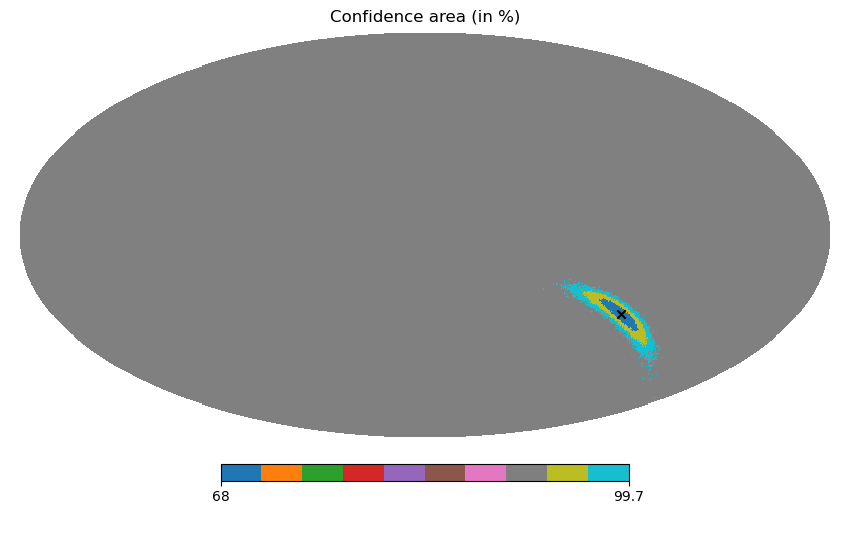
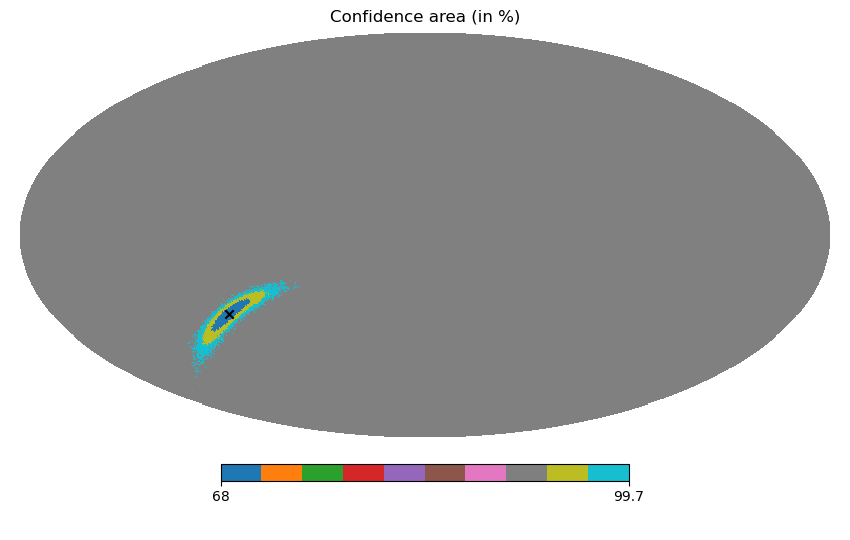
Updating files 21/09/2021

Changed region(s): [[0.6424, 0.5037, 0.7953, 0.6815], [0.2141, 0.5037, 0.3365, 0.6815]]

diff --git a/analytical_method.py b/analytical_method.py
@@ -1,0 +1,109 @@
+import numpy as np
+import matplotlib.pyplot as plt
+import random
+import scipy.stats
+import healpy as hp
+from tools import *
+
+
+################################################################################
+############################## Main program ####################################
+################################################################################
+
+NSIDE = 128
+NPIX = hp.nside2npix(NSIDE)
+area_pix = hp.nside2pixarea(NSIDE, degrees = True)
+
+coord = np.array(hp.pix2ang(nside=NSIDE, ipix=range(0,NPIX))).transpose()
+coord[:,0]=np.pi/2.-coord[:,0]                                                  # Declination = 90-colatitude
+
+ra_true = (-94.4)*(np.pi/180.)
+dec_true = (-28.94)*(np.pi/180.)
+
+sourcepos = Coordinate(ra_true, dec_true).cartesian_coords()
+
+dict = open_pkl('constant')
+c = dict['c']
+Rearth = dict['Rearth']
+lonKM3, latKM3 = dict['coord_KM3']
+lonIC, latIC = dict['coord_IC']
+lonSK, latSK = dict['coord_SK']
+lonHK, latHK = dict['coord_HK']
+lonJUNO, latJUNO = dict['coord_JUNO']
+
+xKM3, yKM3, zKM3 = dict['coord_cart_KM3']
+xIC, yIC, zIC = dict['coord_cart_IC']
+xSK, ySK, zSK = dict['coord_cart_SK']
+xHK, yHK, zHK = dict['coord_cart_HK']
+xJUNO, yJUNO, zJUNO = dict['coord_cart_JUNO']
+
+sigmatICKM3 = dict['sig_IC_KM3']
+sigmatICHK = dict['sig_IC_HK']
+sigmatHKKM3 = dict['sig_HK_KM3']
+sigmatKM3SK = dict['sig_KM3_SK']
+sigmatICSK = dict['sig_IC_SK']
+sigmatJUNOIC = dict['sig_JUNO_IC']
+sigmatJUNOHK = dict['sig_JUNO_HK']
+sigmatJUNOKM3 = dict['sig_JUNO_KM3']
+sigmatSKJUNO = dict['sig_JUNO_SK']
+
+posdiffICKM3 = np.array([xIC-xKM3, yIC-yKM3, zIC-zKM3])
+posdiffHKKM3 = np.array([xSK-xKM3, ySK-yKM3, zSK-zKM3])
+posdiffSKM3 = posdiffHKKM3
+posdiffICHK = np.array([xIC-xSK, yIC-ySK, zIC-zSK])
+posdiffICSK = posdiffICHK
+posdiffJUNOKM3 = np.array([xJUNO-xKM3, yJUNO-yIC, zJUNO-zKM3])
+posdiffJUNOIC = np.array([xJUNO-xIC, yJUNO-yIC, zJUNO-zIC])
+posdiffJUNOHK = np.array([xJUNO-xSK, yJUNO-ySK, zJUNO-zSK])
+posdiffJUNOSK = posdiffJUNOHK
+
+t_ij_wf = np.zeros((6, NPIX))
+t_ij = np.zeros((6, NPIX))
+
+
+
+chi2_totN = np.zeros((NPIX, NPIX))
+chi2_totN_f = np.zeros(NPIX)
+chi2_totN_wf = np.zeros((NPIX, NPIX))
+area_analytical_N = np.zeros(NPIX)
+area_analytical_N_wf = np.zeros(NPIX)
+
+tdelay_trueICKM3 = Coordinate(ra_true, dec_true).time_delay(posdiffICKM3, sourcepos)
+tdelay_trueHKKM3 = Coordinate(ra_true, dec_true).time_delay(posdiffHKKM3, sourcepos)
+tdelay_trueICHK = Coordinate(ra_true, dec_true).time_delay(posdiffICHK, sourcepos)
+tdelay_trueJUNOIC = Coordinate(ra_true, dec_true).time_delay(posdiffJUNOIC, sourcepos)
+tdelay_trueJUNOHK = Coordinate(ra_true, dec_true).time_delay(posdiffJUNOHK, sourcepos)
+tdelay_trueJUNOKM3 = Coordinate(ra_true, dec_true).time_delay(posdiffJUNOKM3, sourcepos)
+
+### Coordinates for each pixels
+
+findposX = np.cos(coord[:, 1])*np.cos(coord[:, 0])                                                              # Pixel coordinates
+findposY = np.sin(coord[:, 1])*np.cos(coord[:, 0])
+findposZ = np.sin(coord[:, 0])
+
+### Computing of t_{i,j}
+
+tdelay_obsICKM3 = (posdiffICKM3[0]*findposX+posdiffICKM3[1]*findposY+posdiffICKM3[2]*findposZ)/c
+tdelay_obsHKKM3 = (posdiffHKKM3[0]*findposX+posdiffHKKM3[1]*findposY+posdiffHKKM3[2]*findposZ)/c
+tdelay_obsICHK = (posdiffICHK[0]*findposX+posdiffICHK[1]*findposY+posdiffICHK[2]*findposZ)/c
+tdelay_obsJUNOIC = (posdiffJUNOIC[0]*findposX+posdiffJUNOIC[1]*findposY+posdiffJUNOIC[2]*findposZ)/c
+tdelay_obsJUNOHK = (posdiffJUNOHK[0]*findposX+posdiffJUNOHK[1]*findposY+posdiffJUNOHK[2]*findposZ)/c
+tdelay_obsJUNOKM3 = (posdiffJUNOKM3[0]*findposX+posdiffJUNOKM3[1]*findposY+posdiffJUNOKM3[2]*findposZ)/c
+
+tab_tdelay_obs = np.array([tdelay_obsICKM3, tdelay_obsHKKM3, tdelay_obsICHK, tdelay_obsJUNOIC, tdelay_obsJUNOHK, tdelay_obsJUNOKM3])
+tab_tdelay_true = np.array([tdelay_trueICKM3, tdelay_trueHKKM3, tdelay_trueICHK, tdelay_trueJUNOIC, tdelay_trueJUNOHK, tdelay_trueJUNOKM3])
+tab_sigmat = np.array([sigmatICKM3, sigmatHKKM3, sigmatICHK, sigmatJUNOIC, sigmatJUNOHK, sigmatJUNOKM3])
+
+t_ij = np.zeros((1, tab_tdelay_obs.shape[0]))
+
+sum = np.zeros(NPIX)
+for i in range(t_ij.shape[1]):
+    t_ij[0, i] = np.random.normal(tab_tdelay_true[i], tab_sigmat[i])
+    sum += ((tab_tdelay_obs[i] - t_ij[0, i])/tab_sigmat[i])**2
+
+
+### To a normal map
+conf_map = Stats(NPIX).conf_area(sum)
+
+
+Plots(ra_true, dec_true).plot_with_differents_confs(conf_map, name = 'Analytical method : NSIDE = {}'.format(NSIDE))

diff --git a/tools.py b/tools.py
@@ -2,6 +2,7 @@ import numpy as np
 import pickle
 import matplotlib.pyplot as plt
 import healpy as hp
+import scipy
 
 def save_pkl(dict, name):
     pickle.dump(dict, open('{}.pkl'.format(name), 'wb'))
@@ -79,11 +80,38 @@ class Coordinate:
 
 class Stats:
 
-    def __init__(self, conf):
-        self.CONF = conf
+    def __init__(self, npix):
+        self.oneSIG = 68
+        self.twoSIG = 95
+        self.threeSIG = 99.7
+        self.NPIX = npix
 
     def chi2(self, t_obs, t, sig):
         return ((t_obs - t)/sig)**2
+
+    def conf_area(self, tab):
+
+        delta_chi2_1 = scipy.stats.distributions.chi2.ppf(self.oneSIG/100,2)
+        delta_chi2_2 = scipy.stats.distributions.chi2.ppf(self.twoSIG/100,2)
+        delta_chi2_3 = scipy.stats.distributions.chi2.ppf(self.threeSIG/100,2)
+
+        min_tab = np.min(tab)
+
+        d_chi2_1 = min_tab + delta_chi2_1
+        d_chi2_2 = min_tab + delta_chi2_2
+        d_chi2_3 = min_tab + delta_chi2_3
+
+        conf_map = np.zeros(self.NPIX)
+
+        ind_1 = np.where(tab <= d_chi2_1)[0]
+        ind_2 = np.where(tab <= d_chi2_2)[0]
+        ind_3 = np.where(tab <= d_chi2_3)[0]
+
+        conf_map[ind_3] = self.threeSIG
+        conf_map[ind_2] = self.twoSIG
+        conf_map[ind_1] = self.oneSIG
+
+        return conf_map
 
 class Plots:
 
@@ -97,7 +125,7 @@ class Plots:
         tab[ind] = np.nan
 
         plt.figure()
-        hp.mollview(tab, cmap = 'tab10', cbar = True, title = 'Confidence area (in %)')
+        hp.mollview(tab, cmap = 'tab10', flip = 'geo', cbar = True, title = 'Confidence area (in %)')
         hp.visufunc.projscatter(self.RA*180/np.pi, self.DEC*180/np.pi, c = 'black', marker = 'x', lonlat=True)
         if type(name) is str:
             print('Saving...')

diff --git a/triangulationv2.py b/triangulationv2.py
@@ -1,10 +1,10 @@
 import numpy as np
 import matplotlib.pyplot as plt
 import random
-import time
 import healpy as hp
-from tools import *
 from tqdm import tqdm
+from tools import *
+
 
 dict = open_pkl('constant')
 c = dict['c']
@@ -31,8 +31,8 @@ sigmatJUNOHK = dict['sig_JUNO_HK']
 sigmatJUNOKM3 = dict['sig_JUNO_KM3']
 sigmatSKJUNO = dict['sig_JUNO_SK']
 
-NSIDE = 64
-ntoy = 40000
+NSIDE = 128
+ntoy = 80000
 conf = 90
 
 
@@ -165,9 +165,11 @@ ind_3sig = np.where(chi2_tot == 1)[0]
 
 ### Sets the value of the contour
 
-chi2_tot_f[ind_1sig] = 68
-chi2_tot_f[ind_2sig] = 95
 chi2_tot_f[ind_3sig] = 99.7
+chi2_tot_f[ind_2sig] = 95
+chi2_tot_f[ind_1sig] = 68
+
+
 
 
 Plots(ra_true, dec_true).plot_with_differents_confs(chi2_tot_f, name = '{} - {}'.format(NSIDE, ntoy))
